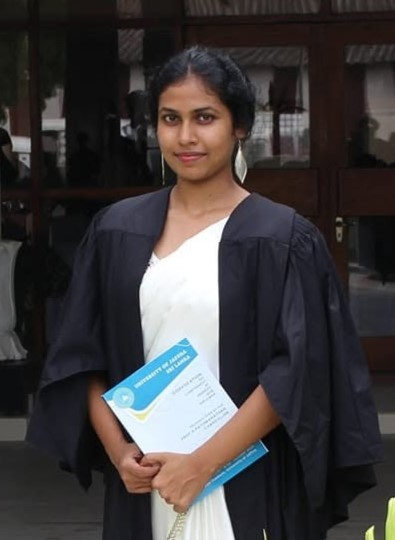
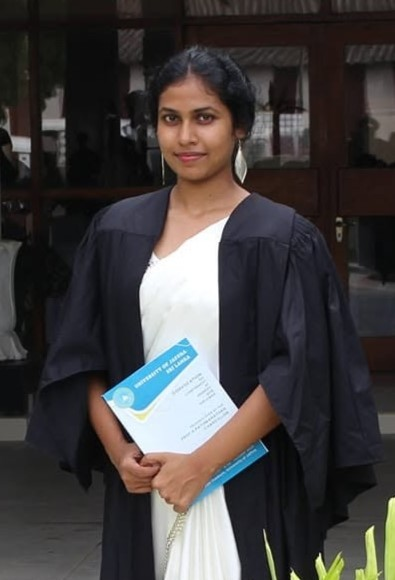
Show more of the founder photo, down to her hands
Crop at 580px (was 540), show the whole photo with a blurred fill at the
sides on desktop, and use the photo's own aspect ratio on mobile.

Claude-Session: https://claude.ai/code/session_01EjSwdTc4JpsF1kqkm2oGwF

diff --git a/index.html b/index.html
@@ -264,14 +264,16 @@ section.block{padding-block:72px 24px}
 .story-art svg{width:min(280px,100%);height:auto}
 .story-art{padding:0}
 .story-art::after{display:none}
-.story-art img{position:absolute;inset:0;width:100%;height:100%;object-fit:cover;object-position:50% 16%}
+.story-art img{position:absolute;display:block}
+.story-art .bg{inset:-8%;width:116%;height:116%;object-fit:cover;filter:blur(22px) brightness(.8)}
+.story-art .fg{inset:0;width:100%;height:100%;object-fit:contain}
 .story-copy{padding:44px 44px 48px;display:flex;flex-direction:column;gap:18px;min-width:0}
 .story-copy h2{font-size:clamp(1.9rem,3.6vw,2.8rem);font-weight:800}
 .story-copy p{color:var(--on-cocoa-muted);max-width:56ch}
 .story blockquote{margin:6px 0 0;padding:0;font-family:var(--display);font-size:clamp(1.25rem,2.2vw,1.55rem);font-weight:500;line-height:1.3;color:var(--on-cocoa)}
 .story blockquote::before{content:"\201C";color:var(--gold);font-size:2.4em;line-height:0;vertical-align:-.4em;margin-right:4px}
 .story cite{font-style:normal;font-weight:600;color:var(--gold)}
-@media (max-width:860px){.story{grid-template-columns:1fr}.story-art{min-height:380px;padding:0}.story-art img{object-position:50% 0%}.story-copy{padding:28px 22px 32px}}
+@media (max-width:860px){.story{grid-template-columns:1fr}.story-art{min-height:0;aspect-ratio:395/580;padding:0}.story-copy{padding:28px 22px 32px}}
 
 /* faq */
 .faq{max-width:820px}
@@ -1022,7 +1024,7 @@ let tt; function toast(m){ const t=$("#toast"); t.textContent=m; t.classList.add
 $("#menuBtn").addEventListener("click", () => { const o = $("#nav").classList.toggle("open"); $("#menuBtn").setAttribute("aria-expanded", o); });
 $$("#nav a").forEach(a => a.addEventListener("click", () => { $("#nav").classList.remove("open"); $("#menuBtn").setAttribute("aria-expanded", false); }));
 $("#yr").textContent = new Date().getFullYear();
-$("#storyArt").innerHTML = `<img src="assets/founder.jpg" alt="Founder of Ceylonique" width="395" height="540" loading="lazy">`;
+$("#storyArt").innerHTML = `<img class="bg" src="assets/founder.jpg" alt="" aria-hidden="true"><img class="fg" src="assets/founder.jpg" alt="Founder of Ceylonique" width="395" height="580" loading="lazy">`;
 
 paintJars(); renderProducts(); renderCart();
 const rerender = () => { renderProducts(); renderCart(); };
